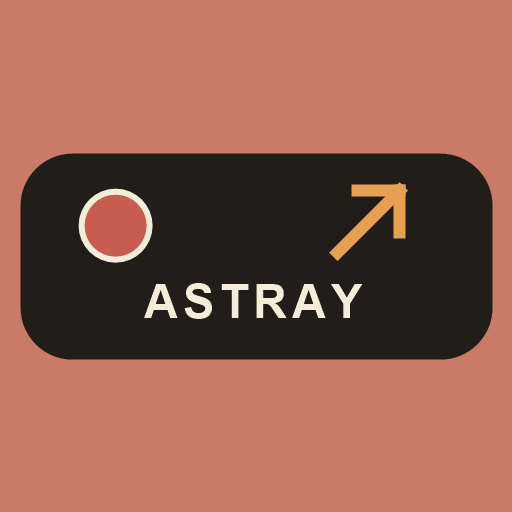
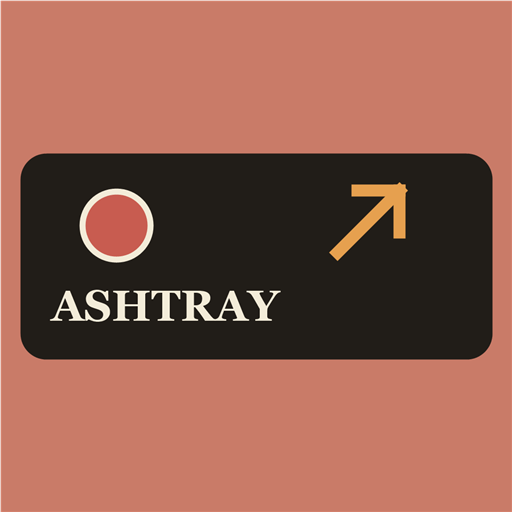
Add files via upload

diff --git a/app.js b/app.js
@@ -12,7 +12,7 @@ const byId = id => document.getElementById(id);
 
 // Keep the app shell available for launch/install; the live journal and audio use the network.
 if ('serviceWorker' in navigator && location.protocol.startsWith('http')) {
-  window.addEventListener('load', () => navigator.serviceWorker.register('./service-worker.js').catch(error => console.warn('Astray offline shell unavailable.', error)));
+  window.addEventListener('load', () => navigator.serviceWorker.register('./service-worker.js').catch(error => console.warn('Ashtray offline shell unavailable.', error)));
 }
 
 let installPrompt = null;
@@ -27,12 +27,12 @@ window.addEventListener('appinstalled', () => { installPrompt = null; if (instal
 if (installButton) installButton.addEventListener('click', async () => {
   if (installPrompt) {
     try { await installPrompt.prompt(); const choice = await installPrompt.userChoice; installPrompt = null; if (choice?.outcome === 'accepted') installButton.textContent = '[ INSTALLING ]'; }
-    catch { installPrompt = null; if (installMessage) { installMessage.textContent = 'Use your browser menu and choose Install Astray or Add to Home Screen.'; installMessage.hidden = false; } }
+    catch { installPrompt = null; if (installMessage) { installMessage.textContent = 'Use your browser menu and choose Install Ashtray or Add to Home Screen.'; installMessage.hidden = false; } }
     return;
   }
   if (installMessage) {
     const agent = navigator.userAgent;
-    installMessage.textContent = /iPhone|iPad|iPod/i.test(agent) ? 'On iPhone or iPad: tap Share, then Add to Home Screen.' : /Android/i.test(agent) ? 'On Android: open the browser menu ⋮ and choose Install app or Add to Home screen.' : 'Open your browser menu and choose Install Astray or Install app.';
+    installMessage.textContent = /iPhone|iPad|iPod/i.test(agent) ? 'On iPhone or iPad: tap Share, then Add to Home Screen.' : /Android/i.test(agent) ? 'On Android: open the browser menu ⋮ and choose Install Ashtray or Add to Home screen.' : 'Open your browser menu and choose Install Ashtray or Install app.';
     installMessage.hidden = false;
   }
 });
@@ -64,7 +64,9 @@ async function api(path, options = {}) {
 }
 function setMessage(node, text) { if (node) node.textContent = text || ''; }
 function showMessage(form, text) { setMessage(form?.querySelector('.form-message'),text); }
-const isPhoto = post => !!post.photo_url || /photo/i.test(post.category||'');
+const isVideoUrl = url => /\.(?:mp4|webm|mov|m4v|ogv)(?:[?#]|$)/i.test(String(url||''));
+const isVideo = post => /video/i.test(post.category||'') || isVideoUrl(post.photo_url);
+const isPhoto = post => !!post.photo_url || /photo|video/i.test(post.category||'');
 const postKind = post => isPhoto(post) ? 'photo' : 'write';
 const publicUrl = path => base+'/storage/v1/object/public/astray-music/'+String(path||'').split('/').map(encodeURIComponent).join('/');
 
@@ -77,8 +79,9 @@ function renderPublicPosts() {
   const visible = publicPosts.filter(post => activeFilter === 'all' || postKind(post) === activeFilter);
   node.innerHTML = visible.map((post,index) => {
     const photo = isPhoto(post);
-    const image = photo ? '<span class="entry-image"><img src="'+esc(post.photo_url)+'" alt="'+esc(post.title)+'" loading="lazy"></span>' : '';
-    const category = post.category || (photo ? 'Photography' : 'Writing');
+    const video = isVideo(post);
+    const image = photo ? '<span class="entry-image'+(video?' entry-video':'')+'">'+(video?'<video src="'+esc(post.photo_url)+'" muted playsinline preload="metadata" aria-label="Video: '+esc(post.title)+'"></video><span class="video-chip" aria-hidden="true">▶ VIDEO</span>':'<img src="'+esc(post.photo_url)+'" alt="'+esc(post.title)+'" loading="lazy">')+'</span>' : '';
+    const category = video ? 'Video' : post.category || (photo ? 'Photography' : 'Writing');
     return '<button class="journal-entry '+(photo?'with-photo':'writing-only')+'" data-post="'+esc(post.id)+'" data-index="'+(index+1)+'" type="button">'+image+'<span class="entry-copy"><span class="entry-date">'+esc(category)+' · '+esc(niceDate(post.created_at))+'</span><strong>'+esc(post.title)+'</strong>'+(post.excerpt?'<span class="entry-excerpt">'+esc(post.excerpt)+'</span>':'')+'<span class="entry-number">'+String(index+1).padStart(2,'0')+'</span></span></button>';
   }).join('');
   const empty = byId('empty-state');
@@ -100,12 +103,14 @@ const feed = byId('journal-feed');
 feed?.addEventListener('click',event => {
   const button=event.target.closest('[data-post]'); if(!button)return;
   const post=publicPosts.find(item=>String(item.id)===button.dataset.post);if(!post)return;
-  const photo=isPhoto(post);
+  const photo=isPhoto(post),video=isVideo(post);
   const body=esc(post.body||'').split('\n').map(line=>line.replace(/\*\*(.+?)\*\*/g,'<strong>$1</strong>').replace(/\*(.+?)\*/g,'<em>$1</em>')).join('\n');
-  byId('post-detail').innerHTML=(photo?'<img class="detail-photo" src="'+esc(post.photo_url)+'" alt="'+esc(post.title)+'">':'')+'<p class="entry-date">'+esc(post.category|| (photo?'Photography':'Writing'))+' · '+esc(niceDate(post.created_at))+'</p><h1>'+esc(post.title)+'</h1>'+(post.excerpt?'<p class="detail-excerpt">'+esc(post.excerpt)+'</p>':'')+'<div class="prose">'+body+'</div>';
+  const media=video?'<video class="detail-video" src="'+esc(post.photo_url)+'" controls playsinline preload="metadata" aria-label="'+esc(post.title)+'"></video>':photo?'<img class="detail-photo" src="'+esc(post.photo_url)+'" alt="'+esc(post.title)+'">':'';
+  byId('post-detail').innerHTML=media+'<p class="entry-date">'+esc(video?'Video':post.category|| (photo?'Photography':'Writing'))+' · '+esc(niceDate(post.created_at))+'</p><h1>'+esc(post.title)+'</h1>'+(post.excerpt?'<p class="detail-excerpt">'+esc(post.excerpt)+'</p>':'')+'<div class="prose">'+body+'</div>';
   byId('post-dialog').showModal();
 });
 byId('post-dialog')?.querySelector('.close')?.addEventListener('click',()=>byId('post-dialog').close());
+byId('post-dialog')?.addEventListener('close',()=>byId('post-detail')?.querySelectorAll('video').forEach(video=>video.pause()));
 
 function setPlaylistOptions(select,playlists) {
   if(!select)return;
@@ -125,14 +130,14 @@ function createPlayer(prefix,playlists,tracks) {
     const track=queue[index];
     if(!mediaSession)return;
     try{
-      if(track&&'MediaMetadata' in window)mediaSession.metadata=new MediaMetadata({title:track.title||'Astray',artist:currentPlaylist()?.name||'Astray Radio',album:'Astray',artwork:[{src:new URL('./astray-icon-512.png',location.href).href,sizes:'512x512',type:'image/png'}]});
+      if(track&&'MediaMetadata' in window)mediaSession.metadata=new MediaMetadata({title:track.title||'Ashtray',artist:currentPlaylist()?.name||'Ashtray Radio',album:'Ashtray',artwork:[{src:new URL('./astray-icon-512.png',location.href).href,sizes:'512x512',type:'image/png'}]});
       else mediaSession.metadata=null;
     }catch{}
   };
   const paint=()=>{
     const track=queue[index];
     if(title)title.textContent=track?.title||'Select a playlist';
-    if(subtitle)subtitle.textContent=track?(currentPlaylist()?.name||'ASTRAY RADIO'):'ASTRAY RADIO';
+    if(subtitle)subtitle.textContent=track?(currentPlaylist()?.name||'ASHTRAY RADIO'):'ASHTRAY RADIO';
     if(playButton){playButton.textContent=audio.paused?'▶':'Ⅱ';playButton.setAttribute('aria-label',audio.paused?'Play':'Pause');}
     if(progress)progress.style.width=(audio.duration?audio.currentTime/audio.duration*100:0)+'%';
     if(mediaSession){try{mediaSession.playbackState=track?(audio.paused?'paused':'playing'):'none';}catch{}}
@@ -177,7 +182,7 @@ async function loadPublic() {
       const [playlists,tracks]=await Promise.all([api('/rest/v1/playlists?select=*&order=slot.asc'),api('/rest/v1/playlist_tracks?select=*&order=sort_order.asc')]);
       createPlayer('public',playlists,tracks);
     } catch(error) { console.warn('Playlist setup is not available yet.',error);createPlayer('public',[],[]); }
-  } catch(error) { console.error('Astray entries could not be loaded.',error);const empty=byId('empty-state');if(empty){empty.textContent='The archive could not load right now. Please refresh in a moment.';empty.hidden=false;} }
+  } catch(error) { console.error('Ashtray entries could not be loaded.',error);const empty=byId('empty-state');if(empty){empty.textContent='The archive could not load right now. Please refresh in a moment.';empty.hidden=false;} }
 }
 void loadPublic();
 
@@ -185,7 +190,18 @@ void loadPublic();
 const login=byId('login-form');
 if(login){
   const panel=byId('sign-in'),dashboard=byId('dashboard'),writeForm=byId('post-form'),photoForm=byId('photo-form'),postList=byId('admin-posts');
-  let adminRows=[],playlists=[],tracks=[],currentPhotoUrl=null,activeTab='writing';
+  let adminRows=[],playlists=[],tracks=[],currentMediaUrl=null,previewObjectUrl=null,activeTab='writing';
+  const previewImage=byId('media-preview-image'),previewVideo=byId('media-preview-video');
+  function clearMediaPreview(){
+    if(previewObjectUrl){URL.revokeObjectURL(previewObjectUrl);previewObjectUrl=null;}
+    if(previewImage){previewImage.removeAttribute('src');previewImage.hidden=true;}
+    if(previewVideo){previewVideo.pause();previewVideo.removeAttribute('src');previewVideo.load();previewVideo.hidden=true;}
+  }
+  function showMediaPreview(url,video){
+    clearMediaPreview();if(!url)return;
+    if(video&&previewVideo){previewVideo.src=url;previewVideo.hidden=false;previewVideo.play().catch(()=>{});}
+    else if(previewImage){previewImage.src=url;previewImage.hidden=false;}
+  }
   function switchTab(name){
     activeTab=name;
     for(const tab of document.querySelectorAll('.desk-tab')){const active=tab.dataset.panel===name;tab.classList.toggle('active',active);tab.setAttribute('aria-selected',String(active));}
@@ -194,7 +210,7 @@ if(login){
   document.querySelectorAll('.desk-tab').forEach(tab=>tab.addEventListener('click',()=>switchTab(tab.dataset.panel)));
   async function loadAdminPosts(){
     adminRows=await api('/rest/v1/posts?select=*&order=created_at.desc');
-    postList.innerHTML=adminRows.length?adminRows.map(post=>'<article class="admin-row"><div><strong>'+esc(post.title)+'</strong><small>'+esc(post.category||'Writing')+' · '+(post.published?'PUBLISHED':'DRAFT')+'</small></div><div class="admin-row-actions"><button class="text-button" type="button" data-edit="'+esc(post.id)+'">EDIT</button><button class="text-button" type="button" data-delete="'+esc(post.id)+'">DELETE</button></div></article>').join(''):'<p class="muted">Your saved entries will appear here.</p>';
+    postList.innerHTML=adminRows.length?adminRows.map(post=>'<article class="admin-row"><div><strong>'+esc(post.title)+'</strong><small>'+esc(isVideo(post)?'Video':post.category||'Writing')+' · '+(post.published?'PUBLISHED':'DRAFT')+'</small></div><div class="admin-row-actions"><button class="text-button" type="button" data-edit="'+esc(post.id)+'">EDIT</button><button class="text-button" type="button" data-delete="'+esc(post.id)+'">DELETE</button></div></article>').join(''):'<p class="muted">Your saved entries will appear here.</p>';
   }
   async function loadMusicAdmin(){
     try { playlists=await api('/rest/v1/playlists?select=*&order=slot.asc');tracks=await api('/rest/v1/playlist_tracks?select=*&order=sort_order.asc');renderPlaylistManager();createPlayer('desk',playlists,tracks); }
@@ -213,17 +229,17 @@ if(login){
   });
   if(!ready)showMessage(login,'Setup missing. Check config.js.');else getFreshSession().then(showDashboard).catch(error=>showMessage(login,error.message));
   byId('sign-out')?.addEventListener('click',async()=>{try{await api('/auth/v1/logout',{method:'POST'});}catch{}clearSession();await showDashboard(null);});
-  byId('new-entry')?.addEventListener('click',()=>{writeForm.reset();photoForm.reset();writeForm.elements.id.value='';photoForm.elements.id.value='';currentPhotoUrl=null;byId('photo-preview').hidden=true;switchTab('writing');window.scrollTo({top:0,behavior:'smooth'});});
+  byId('new-entry')?.addEventListener('click',()=>{writeForm.reset();photoForm.reset();writeForm.elements.id.value='';photoForm.elements.id.value='';currentMediaUrl=null;clearMediaPreview();switchTab('writing');window.scrollTo({top:0,behavior:'smooth'});});
   postList?.addEventListener('click',async event=>{
     const edit=event.target.closest('[data-edit]'),remove=event.target.closest('[data-delete]');
-    if(edit){const post=adminRows.find(item=>String(item.id)===edit.dataset.edit);if(!post)return;const form=isPhoto(post)?photoForm:writeForm;writeForm.reset();photoForm.reset();preview.hidden=true;writeForm.elements.id.value=post.id;photoForm.elements.id.value=post.id;currentPhotoUrl=post.photo_url||null;
-      if(isPhoto(post)){photoForm.elements.title.value=post.title||'';photoForm.elements.excerpt.value=post.excerpt||'';if(currentPhotoUrl){byId('photo-preview').src=currentPhotoUrl;byId('photo-preview').hidden=false;}switchTab('photo');}
+    if(edit){const post=adminRows.find(item=>String(item.id)===edit.dataset.edit);if(!post)return;const form=isPhoto(post)?photoForm:writeForm;writeForm.reset();photoForm.reset();clearMediaPreview();writeForm.elements.id.value=post.id;photoForm.elements.id.value=post.id;currentMediaUrl=post.photo_url||null;
+      if(isPhoto(post)){photoForm.elements.title.value=post.title||'';photoForm.elements.excerpt.value=post.excerpt||'';if(currentMediaUrl)showMediaPreview(currentMediaUrl,isVideo(post));switchTab('photo');}
       else{writeForm.elements.title.value=post.title||'';writeForm.elements.excerpt.value=post.excerpt||'';writeForm.elements.body.value=post.body||'';switchTab('writing');}
       window.scrollTo({top:0,behavior:'smooth'});return;
     }
     if(remove&&confirm('Delete this entry permanently?')){try{await api('/rest/v1/posts?id=eq.'+encodeURIComponent(remove.dataset.delete),{method:'DELETE'});await loadAdminPosts();}catch(error){setMessage(byId('music-message'),error.message);}}
   });
-  const preview=byId('photo-preview');byId('photo-file')?.addEventListener('change',()=>{const file=byId('photo-file').files[0];if(!file){if(!currentPhotoUrl)preview.hidden=true;return;}preview.src=URL.createObjectURL(file);preview.hidden=false;});
+  byId('photo-file')?.addEventListener('change',()=>{const file=byId('photo-file').files[0];if(!file){if(!currentMediaUrl)clearMediaPreview();return;}const objectUrl=URL.createObjectURL(file);showMediaPreview(objectUrl,file.type.startsWith('video/')||isVideoUrl(file.name));previewObjectUrl=objectUrl;});
   for(const button of document.querySelectorAll('[data-format]'))button.addEventListener('click',()=>{
     const area=byId('post-body'),start=area.selectionStart,end=area.selectionEnd,selected=area.value.slice(start,end),format=button.dataset.format;
     const wrapper=format==='bold'?['**','**']:format==='italic'?['*','*']:['> ',''];
@@ -234,13 +250,22 @@ if(login){
     if(!form.reportValidity())return;
     const values=new FormData(form),id=values.get('id');
     try{
-      showMessage(form,published?'Publishing…':'Saving draft…');let photoUrl=kind==='photo'?currentPhotoUrl:null;
+      showMessage(form,published?'Publishing…':'Saving draft…');let photoUrl=kind==='photo'?currentMediaUrl:null;
       const photo=values.get('photo');
-      if(kind==='photo'&&photo?.size){const ext=(photo.name.split('.').pop()||'jpg').replace(/[^a-z0-9]/gi,'')||'jpg',path=crypto.randomUUID()+'.'+ext;await api('/storage/v1/object/journal-photos/'+path,{method:'POST',body:photo,headers:{'Content-Type':photo.type||'application/octet-stream'}});photoUrl=base+'/storage/v1/object/public/journal-photos/'+path;}
-      if(kind==='photo'&&!photoUrl)throw new Error('Choose a photograph before saving.');
-      const row={title:values.get('title').trim(),excerpt:(values.get('excerpt')||'').trim(),category:kind==='photo'?'Photography':'Writing',body:kind==='photo'?((values.get('excerpt')||'').trim()||values.get('title').trim()):values.get('body').trim(),photo_url:photoUrl,published};
+      let mediaIsVideo=currentMediaUrl?isVideo({photo_url:currentMediaUrl}):false;
+      if(kind==='photo'&&photo?.size){
+        const ext=(photo.name.split('.').pop()||'').replace(/[^a-z0-9]/gi,'').toLowerCase();
+        const videoFile=photo.type.startsWith('video/')||isVideoUrl(photo.name);
+        const imageFile=photo.type.startsWith('image/')||/^(?:jpe?g|png|gif|webp|avif|heic|heif|bmp|tiff?)$/i.test(ext);
+        if(!videoFile&&!imageFile)throw new Error('Choose an image or a video file (MP4, WebM, or MOV).');
+        const path=crypto.randomUUID()+'.'+(ext|| (videoFile?'mp4':'jpg'));
+        await api('/storage/v1/object/journal-photos/'+path,{method:'POST',body:photo,headers:{'Content-Type':photo.type|| (videoFile?'video/mp4':'application/octet-stream')}});
+        photoUrl=base+'/storage/v1/object/public/journal-photos/'+path;mediaIsVideo=videoFile;
+      }
+      if(kind==='photo'&&!photoUrl)throw new Error('Choose a photograph or video before saving.');
+      const row={title:values.get('title').trim(),excerpt:(values.get('excerpt')||'').trim(),category:kind==='photo'?(mediaIsVideo?'Video':'Photography'):'Writing',body:kind==='photo'?((values.get('excerpt')||'').trim()||values.get('title').trim()):values.get('body').trim(),photo_url:photoUrl,published};
       await api(id?'/rest/v1/posts?id=eq.'+encodeURIComponent(id):'/rest/v1/posts',{method:id?'PATCH':'POST',body:JSON.stringify(row),headers:{'Content-Type':'application/json','Prefer':'return=minimal'}});
-      form.reset();writeForm.elements.id.value='';photoForm.elements.id.value='';currentPhotoUrl=null;preview.hidden=true;showMessage(form,published?'Published.':'Draft saved.');await loadAdminPosts();
+      form.reset();writeForm.elements.id.value='';photoForm.elements.id.value='';currentMediaUrl=null;clearMediaPreview();showMessage(form,published?'Published.':'Draft saved.');await loadAdminPosts();
     }catch(error){showMessage(form,error.message||'Could not save this entry.');}
   }
   byId('save-draft')?.addEventListener('click',()=>savePost(activeTab==='photo'?'photo':'write',false));

diff --git a/admin.html b/admin.html
@@ -4,41 +4,43 @@
   <meta charset="utf-8">
   <meta name="viewport" content="width=device-width,initial-scale=1,viewport-fit=cover">
   <meta name="theme-color" content="#c97b68">
-  <title>Author desk — Astray</title>
+  <meta name="application-name" content="Ashtray">
+  <meta name="apple-mobile-web-app-title" content="Ashtray">
+  <title>Author desk — Ashtray</title>
   <link rel="manifest" href="manifest.webmanifest">
   <link rel="apple-touch-icon" href="astray-icon-192.png">
-  <link rel="stylesheet" href="styles.css?v=26">
+  <link rel="stylesheet" href="styles.css?v=27">
 </head>
 <body class="admin-body">
   <header class="admin-header">
-    <a class="admin-brand" href="index.html" aria-label="Astray author desk"><img src="astray-logo.svg" alt="Astray logo"><span>PRIVATE AUTHOR DESK</span></a>
+    <a class="admin-brand" href="index.html" aria-label="Ashtray author desk"><img src="astray-logo.svg" alt="Ashtray logo"><span>PRIVATE AUTHOR DESK</span></a>
     <a class="back-journal" href="index.html">[ VIEW JOURNAL ]</a>
   </header>
   <main class="admin-main">
     <section id="sign-in" class="login-layout">
-      <div class="login-editorial"><p class="eyebrow">ASTRAY · PRIVATE ARCHIVE</p><h1>Author’s<br>desk</h1><p>Your writing and photographs, gathered in one place.</p><a href="index.html">← BACK TO THE PUBLIC JOURNAL</a><div class="login-record" aria-hidden="true"><span></span></div></div>
+      <div class="login-editorial"><p class="eyebrow">ASHTRAY · PRIVATE ARCHIVE</p><h1>Author’s<br>desk</h1><p>Your writing, photographs, and videos, gathered in one place.</p><a href="index.html">← BACK TO THE PUBLIC JOURNAL</a><div class="login-record" aria-hidden="true"><span></span></div></div>
       <div class="login-card card"><p class="eyebrow">[ PRIVATE ENTRANCE ]</p><h2>Sign in to publish</h2><form id="login-form" onsubmit="return false"><label>Email<input name="email" type="email" required autocomplete="username" placeholder="you@example.com"></label><label>Password<input name="password" type="password" required autocomplete="current-password"></label><button class="button login-submit" type="submit">SIGN IN <span aria-hidden="true">→</span></button><p class="form-message" aria-live="polite"></p></form><p class="login-note">There is no public sign-up. Readers never need an account; they just read.</p></div>
     </section>
     <section id="dashboard" hidden>
       <div class="desk-topbar">
-        <div class="desk-mark" aria-label="Astray"><img src="astray-icon.svg" alt=""></div>
-        <nav class="desk-tabs" role="tablist" aria-label="Author desk sections"><button class="desk-tab active" id="tab-writing" type="button" role="tab" aria-selected="true" data-panel="writing">WRITE</button><button class="desk-tab" id="tab-photo" type="button" role="tab" aria-selected="false" data-panel="photo">PHOTOGRAPH</button><button class="desk-tab" id="tab-music" type="button" role="tab" aria-selected="false" data-panel="music">MUSIC</button></nav>
+        <div class="desk-mark" aria-label="Ashtray"><img src="astray-icon.svg" alt=""></div>
+        <nav class="desk-tabs" role="tablist" aria-label="Author desk sections"><button class="desk-tab active" id="tab-writing" type="button" role="tab" aria-selected="true" data-panel="writing">WRITE</button><button class="desk-tab" id="tab-photo" type="button" role="tab" aria-selected="false" data-panel="photo">MEDIA</button><button class="desk-tab" id="tab-music" type="button" role="tab" aria-selected="false" data-panel="music">MUSIC</button></nav>
         <div class="desk-actions"><button id="save-draft" class="pill-button" type="button">DRAFT</button><button id="publish-post" class="pill-button publish-pill" type="button">PUBLISH <span>↗</span></button><button id="sign-out" class="logout-icon" type="button" aria-label="Log out" title="Log out">⇥</button></div>
       </div>
       <section id="writing-panel" class="desk-panel" role="tabpanel" aria-labelledby="tab-writing">
         <div class="editor-layout"><form id="post-form" class="writing-editor"><input name="id" type="hidden"><input name="category" type="hidden" value="Writing"><label class="sr-only" for="post-title">Title</label><input id="post-title" class="title-input" name="title" required maxlength="180" placeholder="Title"><label class="sr-only" for="post-excerpt">Short introduction</label><input id="post-excerpt" class="excerpt-input" name="excerpt" maxlength="280" placeholder="A short introduction (optional)"><div class="format-tools" aria-label="Writing tools"><button type="button" data-format="bold" aria-label="Bold">B</button><button type="button" data-format="italic" aria-label="Italic"><i>I</i></button><button type="button" data-format="quote" aria-label="Quote">“</button><span class="format-rule"></span></div><label class="sr-only" for="post-body">Your writing</label><textarea id="post-body" name="body" class="body-input" rows="14" required placeholder="Start writing…"></textarea><p class="form-message" aria-live="polite"></p></form></div>
       </section>
-      <section id="photo-panel" class="desk-panel" role="tabpanel" aria-labelledby="tab-photo" hidden><div class="editor-layout"><form id="photo-form" class="writing-editor"><input name="id" type="hidden"><input name="category" type="hidden" value="Photography"><label class="sr-only" for="photo-title">Title</label><input id="photo-title" class="title-input" name="title" required maxlength="180" placeholder="Photograph title"><label class="sr-only" for="photo-excerpt">Caption</label><input id="photo-excerpt" class="excerpt-input" name="excerpt" maxlength="280" placeholder="Caption (optional)"><label class="photo-drop" for="photo-file"><span>＋</span><strong>Choose a photograph</strong><small>JPG, PNG, or WebP</small><input id="photo-file" name="photo" type="file" accept="image/*"><img id="photo-preview" alt="Selected photo preview" hidden></label><p class="form-message" aria-live="polite"></p></form></div></section>
+      <section id="photo-panel" class="desk-panel" role="tabpanel" aria-labelledby="tab-photo" hidden><div class="editor-layout"><form id="photo-form" class="writing-editor"><input name="id" type="hidden"><input name="category" type="hidden" value="Photography"><label class="sr-only" for="photo-title">Title</label><input id="photo-title" class="title-input" name="title" required maxlength="180" placeholder="Photograph or video title"><label class="sr-only" for="photo-excerpt">Caption</label><input id="photo-excerpt" class="excerpt-input" name="excerpt" maxlength="280" placeholder="Caption (optional)"><label class="photo-drop" for="photo-file"><span>＋</span><strong>Choose a photograph or video</strong><small>Images: JPG, PNG, or WebP · Videos: MP4, WebM, or MOV (MP4 recommended)</small><input id="photo-file" name="photo" type="file" accept="image/*,video/mp4,video/webm,video/quicktime"><img id="media-preview-image" alt="Selected image preview" hidden><video id="media-preview-video" class="media-video-preview" muted loop playsinline preload="metadata" hidden></video></label><p class="form-message" aria-live="polite"></p></form></div></section>
       <section id="music-panel" class="desk-panel music-admin" role="tabpanel" aria-labelledby="tab-music" hidden>
-        <header class="music-admin-heading"><p class="eyebrow">[ ASTRAY RADIO ]</p><h1>Your playlists</h1><p>Keep up to five named playlists. Add songs to each; listeners choose a playlist and tracks play through in order.</p></header>
+        <header class="music-admin-heading"><p class="eyebrow">[ ASHTRAY RADIO ]</p><h1>Your playlists</h1><p>Keep up to five named playlists. Add songs to each; listeners choose a playlist and tracks play through in order.</p></header>
         <div id="playlist-manager" class="playlist-manager"></div>
         <p id="music-message" class="form-message" aria-live="polite"></p>
       </section>
-      <section class="entries-section"><div class="entries-heading"><div><p class="eyebrow">[ YOUR ARCHIVE ]</p><h2>Your writing & photographs</h2></div><button id="new-entry" class="text-button" type="button">＋ NEW ENTRY</button></div><div id="admin-posts" class="admin-posts"></div></section>
+      <section class="entries-section"><div class="entries-heading"><div><p class="eyebrow">[ YOUR ARCHIVE ]</p><h2>Your writing, photographs & videos</h2></div><button id="new-entry" class="text-button" type="button">＋ NEW ENTRY</button></div><div id="admin-posts" class="admin-posts"></div></section>
       <section class="music-player desk-player" aria-label="Music for writing"><div class="record-art" aria-hidden="true"><span></span></div><div class="desk-player-track"><strong id="desk-track-title">Choose a playlist</strong><small id="desk-track-subtitle">MUSIC FOR WRITING</small></div><div class="player-controls"><button id="desk-prev" type="button" aria-label="Previous song">|◀</button><button id="desk-play" class="play-toggle" type="button" aria-label="Play">▶</button><button id="desk-next" type="button" aria-label="Next song">▶|</button></div><label class="desk-playlist-label" for="desk-playlist">PLAYLIST</label><select id="desk-playlist" aria-label="Choose a playlist"><option value="">Choose playlist</option></select><label class="desk-volume" for="desk-volume"><span>VOL.</span><output id="desk-volume-value" for="desk-volume">03</output><input id="desk-volume" type="range" min="1" max="10" value="3" aria-label="Volume"></label><audio id="desk-audio" preload="metadata"></audio></section>
     </section>
   </main>
-  <footer class="admin-footer">ASTRAY · PRIVATE AUTHOR DESK</footer>
-  <script type="module" src="app.js?v=12"></script>
+  <footer class="admin-footer">ASHTRAY · PRIVATE AUTHOR DESK</footer>
+  <script type="module" src="app.js?v=13"></script>
 </body>
 </html>

diff --git a/index.html b/index.html
@@ -3,24 +3,26 @@
 <head>
   <meta charset="utf-8">
   <meta name="viewport" content="width=device-width,initial-scale=1,viewport-fit=cover">
-  <meta name="description" content="Astray — photographs and writing from a life in motion.">
+  <meta name="application-name" content="Ashtray">
+  <meta name="apple-mobile-web-app-title" content="Ashtray">
+  <meta name="description" content="Ashtray — photographs, videos, and writing from a life in motion.">
   <meta name="theme-color" content="#c97b68">
-  <title>Astray — Personal Archive</title>
+  <title>Ashtray — Personal Archive</title>
   <link rel="manifest" href="manifest.webmanifest">
   <link rel="apple-touch-icon" href="astray-icon-192.png">
-  <link rel="stylesheet" href="styles.css?v=26">
+  <link rel="stylesheet" href="styles.css?v=27">
 </head>
 <body class="journal-page">
-  <aside class="identity-rail" aria-label="Astray journal controls">
-      <a class="rail-brand" href="index.html" aria-label="Astray home"><img class="brand-portrait" src="astray-logo.svg" alt="Astray"></a>
+  <aside class="identity-rail" aria-label="Ashtray journal controls">
+      <a class="rail-brand" href="index.html" aria-label="Ashtray home"><img class="brand-portrait" src="astray-logo.svg" alt="Ashtray"></a>
     <div class="rail-filters" aria-label="Filter entries">
       <button class="filter-card filter-all active" type="button" data-filter="all"><span class="filter-label">ALL</span><svg class="filter-icon" viewBox="0 0 24 24" aria-hidden="true"><rect x="3" y="3" width="7" height="7" rx="1"/><rect x="14" y="3" width="7" height="7" rx="1"/><rect x="3" y="14" width="7" height="7" rx="1"/><rect x="14" y="14" width="7" height="7" rx="1"/></svg><strong id="count-all">00</strong><img class="filter-object filter-hairband" src="hair-band-display.png" alt=""><i class="filter-indicator" aria-hidden="true"></i></button>
-      <button class="filter-card filter-photo" type="button" data-filter="photo"><span class="filter-label">PHOTO</span><svg class="filter-icon" viewBox="0 0 24 24" aria-hidden="true"><path d="M3 7h4l2-3h6l2 3h4v13H3z"/><circle cx="12" cy="13" r="4"/></svg><strong id="count-photo">00</strong><img class="filter-object filter-bow" src="ear-ring-bow-display.png" alt=""><i class="filter-indicator" aria-hidden="true"></i></button>
+      <button class="filter-card filter-photo" type="button" data-filter="photo"><span class="filter-label">MEDIA</span><svg class="filter-icon" viewBox="0 0 24 24" aria-hidden="true"><path d="M3 7h4l2-3h6l2 3h4v13H3z"/><circle cx="12" cy="13" r="4"/></svg><strong id="count-photo">00</strong><img class="filter-object filter-bow" src="ear-ring-bow-display.png" alt=""><i class="filter-indicator" aria-hidden="true"></i></button>
       <button class="filter-card filter-write" type="button" data-filter="write"><span class="filter-label">WRITE</span><svg class="filter-icon" viewBox="0 0 24 24" aria-hidden="true"><path d="m4 16 10-10 4 4L8 20l-5 1z"/><path d="m12 8 4 4"/></svg><strong id="count-write">00</strong><img class="filter-object filter-ring" src="ear-ring-display.png" alt=""><i class="filter-indicator" aria-hidden="true"></i></button>
     </div>
     <section class="music-player rail-player" aria-label="Music player">
       <div class="record-art" aria-hidden="true"><span></span></div>
-      <div class="player-track"><strong id="public-track-title">Select a playlist</strong><small id="public-track-subtitle">ASTRAY RADIO</small></div>
+      <div class="player-track"><strong id="public-track-title">Select a playlist</strong><small id="public-track-subtitle">ASHTRAY RADIO</small></div>
       <div class="player-progress"><span id="public-progress"></span></div>
       <div class="player-controls">
         <button id="public-prev" type="button" aria-label="Previous song">|◀</button>
@@ -40,6 +42,6 @@
     <p id="empty-state" class="empty-state" hidden></p>
   </main>
   <dialog id="post-dialog" class="entry-dialog"><button class="close" aria-label="Close entry">×</button><article id="post-detail"></article></dialog>
-  <script type="module" src="app.js?v=12"></script>
+  <script type="module" src="app.js?v=13"></script>
 </body>
 </html>

diff --git a/styles.css b/styles.css
@@ -76,8 +76,9 @@ button{color:inherit}
 .journal-entry.writing-only{display:flex;align-items:stretch;min-height:120px;padding:clamp(17px,2vw,28px);background:var(--paper-light)}
 .writing-only:nth-child(6n+2){background:var(--orange)}.writing-only:nth-child(6n+3){background:var(--blush)}.writing-only:nth-child(6n+4){background:var(--sage)}.writing-only:nth-child(6n+5){background:#d9d1b8}.writing-only:nth-child(6n){background:#c96454}
 .entry-image{position:relative;inset:auto;display:block;background:transparent}
-.entry-image img{display:block;width:100%;height:auto;max-height:72vh;object-fit:contain;filter:grayscale(.5) sepia(.13) contrast(1.03);transition:filter .25s,transform .35s}
-.journal-entry:hover .entry-image img{filter:grayscale(.12) sepia(.07);transform:scale(1.025)}
+.entry-image img,.entry-image video{display:block;width:100%;height:auto;max-height:72vh;object-fit:contain;filter:grayscale(.5) sepia(.13) contrast(1.03);transition:filter .25s,transform .35s}
+.journal-entry:hover .entry-image img,.journal-entry:hover .entry-image video{filter:grayscale(.12) sepia(.07)}
+.entry-video{background:#211d18}.entry-video video{min-height:140px}.video-chip{position:absolute;right:12px;bottom:12px;padding:6px 9px;background:#211d18d9;color:#f3ecd9;font:8px var(--mono);letter-spacing:1px}
 .with-photo .entry-copy{position:absolute;inset:auto 0 0;display:flex;flex-direction:column;align-items:flex-start;padding:34px 18px 18px;color:var(--paper-light);background:linear-gradient(0deg,#211d18e8,transparent)}
 .entry-date{display:block;color:#8d3d31;font-size:8px;line-height:1.6;letter-spacing:1px;text-transform:uppercase;margin:0 0 8px}
 .with-photo .entry-date{color:#e7ae90}
@@ -95,6 +96,7 @@ button{color:inherit}
 .entry-dialog .close{position:sticky;float:right;top:0;border:0;background:var(--red);color:var(--ink);width:38px;height:38px;font:26px/1 Georgia,serif;cursor:pointer}
 .entry-dialog h1{font:700 clamp(30px,5vw,46px)/1.15 var(--serif);margin:10px 0;overflow-wrap:anywhere}
 .detail-photo{display:block;width:100%;max-height:65dvh;object-fit:contain;background:#d2c6ad;margin:16px auto}
+.detail-video{display:block;width:100%;max-height:65dvh;object-fit:contain;background:#211d18;margin:16px auto}
 .entry-dialog .prose{font:18px/1.85 var(--serif);white-space:pre-wrap;overflow-wrap:anywhere}
 .entry-dialog .detail-excerpt{font:italic 17px/1.6 var(--serif);color:var(--soft-ink)}
 
@@ -147,7 +149,7 @@ button{color:inherit}
 .body-input{display:block;width:100%;min-height:310px;border:0!important;background:transparent!important;padding:6px 0!important;margin:0!important;resize:vertical;font:18px/1.8 var(--serif)!important}
 .body-input::placeholder{color:#8f897b}
 .photo-drop{position:relative;display:flex!important;flex-direction:column;align-items:center;justify-content:center;gap:8px;min-height:260px;margin:28px 0!important;border:1px dashed #8f8065;background:#e1d5ba;text-align:center;cursor:pointer}
-.photo-drop>span{font:34px var(--mono);color:#8d3d31}.photo-drop strong{font:20px var(--serif)}.photo-drop small{font:9px var(--mono);color:var(--soft-ink)}.photo-drop input{position:absolute!important;inset:0;width:100%;height:100%;opacity:0;cursor:pointer}.photo-drop img{position:absolute;inset:0;width:100%;height:100%;object-fit:contain;background:#e1d5ba;pointer-events:none}
+.photo-drop>span{font:34px var(--mono);color:#8d3d31}.photo-drop strong{font:20px var(--serif)}.photo-drop small{font:9px var(--mono);color:var(--soft-ink)}.photo-drop input{position:absolute!important;inset:0;width:100%;height:100%;opacity:0;cursor:pointer}.photo-drop img,.photo-drop video{position:absolute;inset:0;width:100%;height:100%;object-fit:contain;background:#e1d5ba;pointer-events:none}.photo-drop .media-video-preview{object-fit:contain}
 .entries-section{max-width:1020px;margin:0 auto 100px;padding:18px 22px;border-top:1px solid #211d1828}
 .entries-heading{display:flex;align-items:center;justify-content:space-between;gap:12px;margin-bottom:14px}
 .entries-heading h2{margin:3px 0;font:700 clamp(22px,3vw,32px) var(--serif)}

diff --git a/service-worker.js b/service-worker.js
@@ -1,6 +1,6 @@
-const CACHE = 'astray-shell-v9';
+const CACHE = 'astray-shell-v10';
 const SHELL = [
-  './', './index.html', './admin.html', './styles.css?v=26', './app.js?v=12',
+  './', './index.html', './admin.html', './styles.css?v=27', './app.js?v=13',
   './config.js', './manifest.webmanifest', './astray-logo.svg', './astray-icon.svg',
   './astray-icon-192.png', './astray-icon-512.png', './hair-band-display.png',
   './ear-ring-bow-display.png', './ear-ring-display.png'

diff --git a/SETUP.md b/SETUP.md
@@ -1,4 +1,4 @@
-# Astray — personal archive and listening room
+# Ashtray — personal archive and listening room
 
 The website has a public journal and a private author desk. To connect its backend, follow these steps:
 
@@ -8,16 +8,16 @@ The website has a public journal and a private author desk. To connect its backe
 4. Upload all files in this folder to the root of your GitHub repository, replacing the current files. Ensure `index.html`, `admin.html`, `app.js`, `config.js`, and `styles.css` sit at the top level.
 5. GitHub Pages will publish the update automatically. The public site is the repository Pages address; your author desk is the same address followed by `/admin.html`.
 
-The public page includes a DOWNLOAD control for installing Astray as a browser app on supported phones and computers. Keep `manifest.webmanifest`, `service-worker.js`, `astray-icon-192.png`, and `astray-icon-512.png` beside the HTML files. The installed app needs an internet connection to load the journal, songs, and Supabase content. On iPhone/iPad, use Safari Share → Add to Home Screen if no install prompt appears.
+The public page includes a DOWNLOAD control for installing Ashtray as a browser app on supported phones and computers. Keep `manifest.webmanifest`, `service-worker.js`, `astray-icon-192.png`, and `astray-icon-512.png` beside the HTML files. The installed app needs an internet connection to load the journal, songs, and Supabase content. On iPhone/iPad, use Safari Share → Add to Home Screen if no install prompt appears.
 
-Only published posts are visible to visitors. Unpublished drafts are private to authenticated users. The photo and music buckets are public so published images and playlist songs can be played. Upload only media you intend to share publicly. The included publishable key is intended for browser use; database access is restricted by the SQL policies. Keep your password private and enable MFA if available.
+Only published posts are visible to visitors. Unpublished drafts are private to authenticated users. The media and music buckets are public so published photographs, videos, and playlist songs can be played. Upload only media you intend to share publicly. The included publishable key is intended for browser use; database access is restricted by the SQL policies. Keep your password private and enable MFA if available.
 
-## Adding photographs and writing
+## Adding photographs, videos, and writing
 
-- The public homepage starts blank. Published entries appear newest first in color-tinted cards. Use ALL, PHOTO, and WRITE in the sidebar to filter them.
-- Use the WRITE and PHOTOGRAPH tabs in the author desk to create different kinds of entries. Selecting an entry lets you edit or delete it.
+- The public homepage starts blank. Published entries appear newest first in color-tinted cards. Use ALL, MEDIA, and WRITE in the sidebar to filter them.
+- Use the WRITE and MEDIA tabs in the author desk to create writing, photograph, and video entries. The MEDIA tab accepts JPG, PNG, WebP, MP4, WebM, and MOV files. MP4 has the broadest playback support. Videos use the existing media bucket; no database table changes are needed. Your Supabase storage limit applies. Selecting an entry lets you edit or delete it.
 - The author desk MUSIC tab contains five playlist slots. Rename a playlist and add multiple audio files. Songs are played in order and advance automatically. Visitors choose a playlist, not individual songs.
-- While a song is playing, supported browsers can show its title and Astray artwork on the phone lock screen and offer play, pause, previous, and next controls. Background playback depends on the phone, browser, battery settings, and network; a website cannot guarantee identical behavior to Spotify on every device. MP3 audio has the broadest compatibility.
+- While a song is playing, supported browsers can show its title and Ashtray artwork on the phone lock screen and offer play, pause, previous, and next controls. Background playback depends on the phone, browser, battery settings, and network; a website cannot guarantee identical behavior to Spotify on every device. MP3 audio has the broadest compatibility.
 - On the public page, use the volume slider to set listening level from 01 to 10. The author desk has its own player so you can listen while writing.
 - Only published entries appear publicly. Use the author desk to edit or delete them later.
 - The site has one public homepage and one private author desk at admin.html. The public page also has a DOWNLOAD / install control beside AUTHOR DESK.
